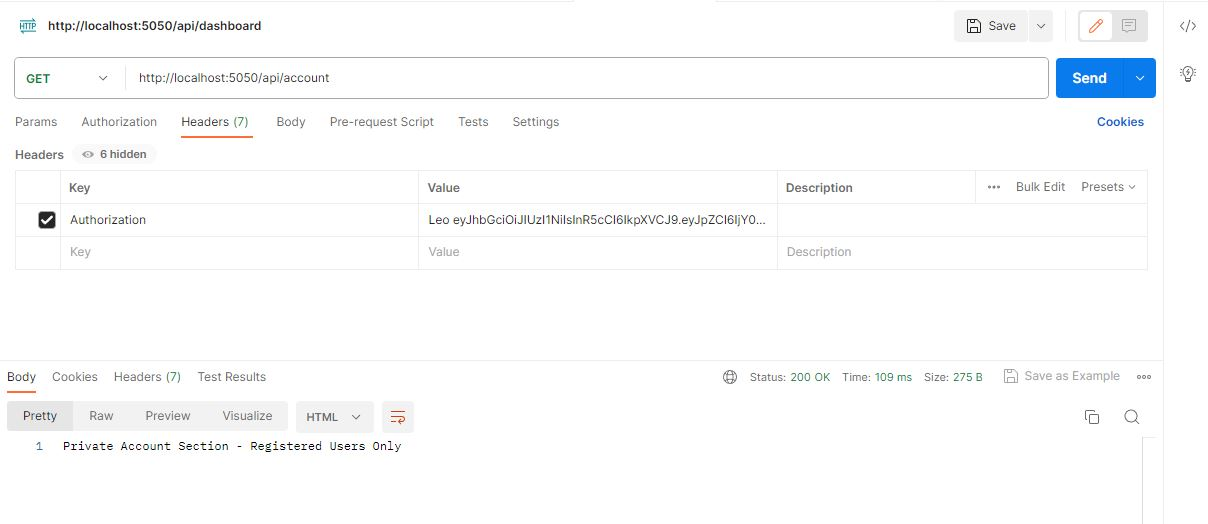
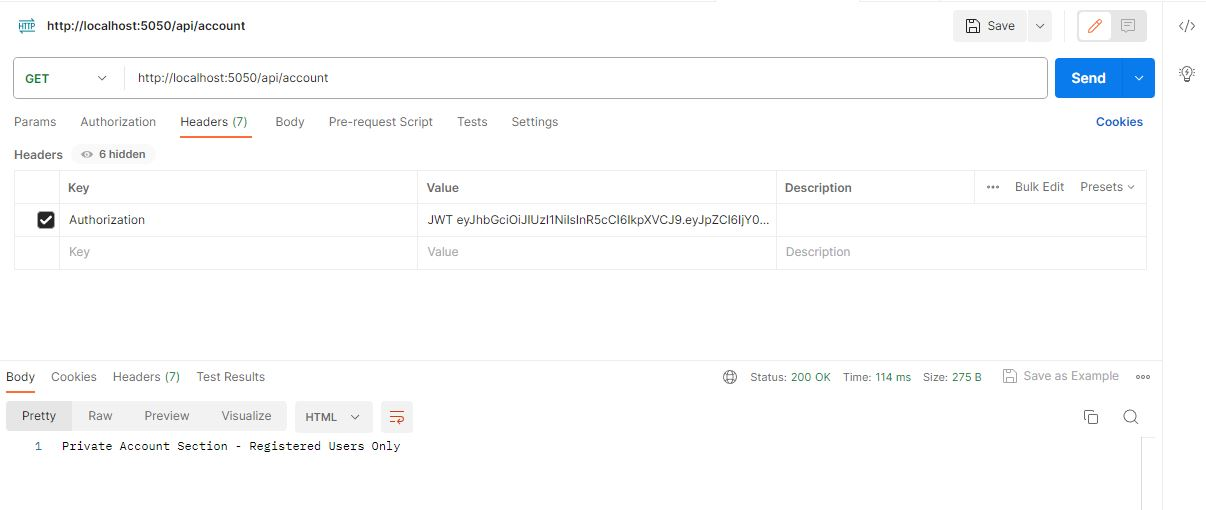
auth improvements

diff --git a/middleware/auth.js b/middleware/auth.js
@@ -1,22 +1,45 @@
 import jwt from 'jsonwebtoken';
-import asyncHandler from 'express-async-handler'
-import User from '../model/models.js'
+import asyncHandler from 'express-async-handler';
+import User from '../model/models.js';
 
-const protect = asyncHandler( async(req, res, next) => {
-    if(req.headers.authorization && req.headers.authorization.startsWith('Leo')){
-        try {
-            let token = req.headers.authorization.split(' ')[1];
-            const decoded = jwt.verify(token, process.env.JWT_SECRET);
-
-            req.user = await User.findById(decoded.id).select('-password')
-            next();
-        } catch (error) {
-            console.error(error);
-            res.status(500).json({success: false, message: 'Something went wrong!!'})
-        }
-    } else{
-        res.status(400).json({success: false, message: 'Not Authorized'})
+// Verify and extract user information from JWT token
+const verifyToken = (token) => {
+    try {
+        return jwt.verify(token, process.env.JWT_SECRET);
+    } catch (error) {
+        console.error('Error verifying JWT token:', error);
+        return null;
     }
-})
+}
 
-export default protect
+// Protect routes with JWT authentication
+const protect = asyncHandler(async(req, res, next) => {
+    let token;
+
+    if(req.headers.authorization && req.headers.authorization.startsWith('JWT')) {
+        token = req.headers.authorization.split(' ')[1];
+    }
+
+    // Check if token exists
+    if (!token) {
+        return res.status(401).json({ success: false, message: 'Not authorized, no token' });
+    }
+
+    // Verify the token
+    const decoded = verifyToken(token);
+
+    if (!decoded) {
+        return res.status(401).json({ success: false, message: 'Not authorized, invalid token' });
+    }
+
+    try {
+        // Attach user to the request object
+        req.user = await User.findById(decoded.id).select('-password');
+        next();
+    } catch (error) {
+        console.error('Error fetching user:', error);
+        res.status(500).json({ success: false, message: 'Something went wrong!' });
+    }
+});
+
+export default protect;

diff --git a/README.md b/README.md
@@ -91,4 +91,6 @@ MongoDB is Connected successfully: ac-okc09tz-shard-00-01.ooedapl.mongodb.net
 
 ### Test GET (login into private router successfully after register)
 
+> TIP: We need to add Headers: `Key`: `Authorization` & `Value`: `<token-value-here>`
+
 ![Postman API GET valid](./shared/imgs/account.jpg)
